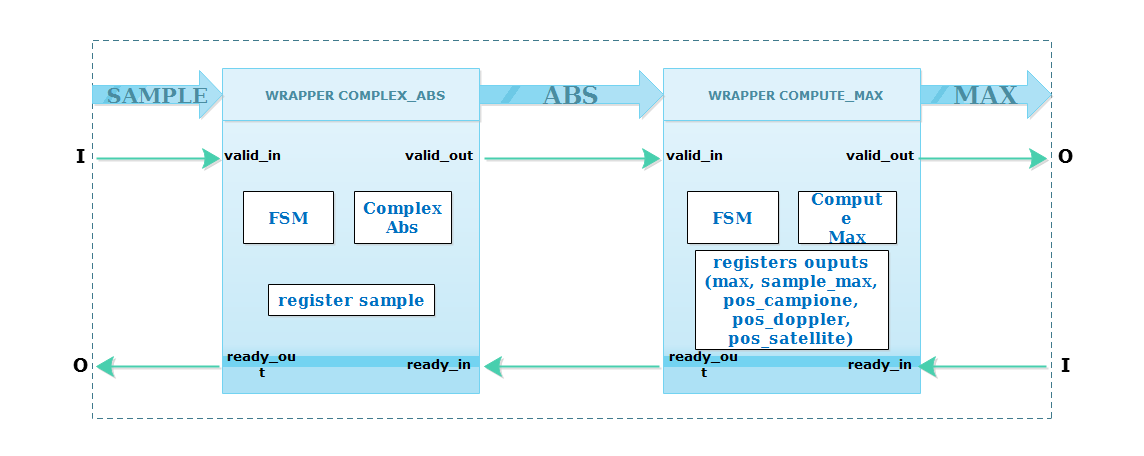
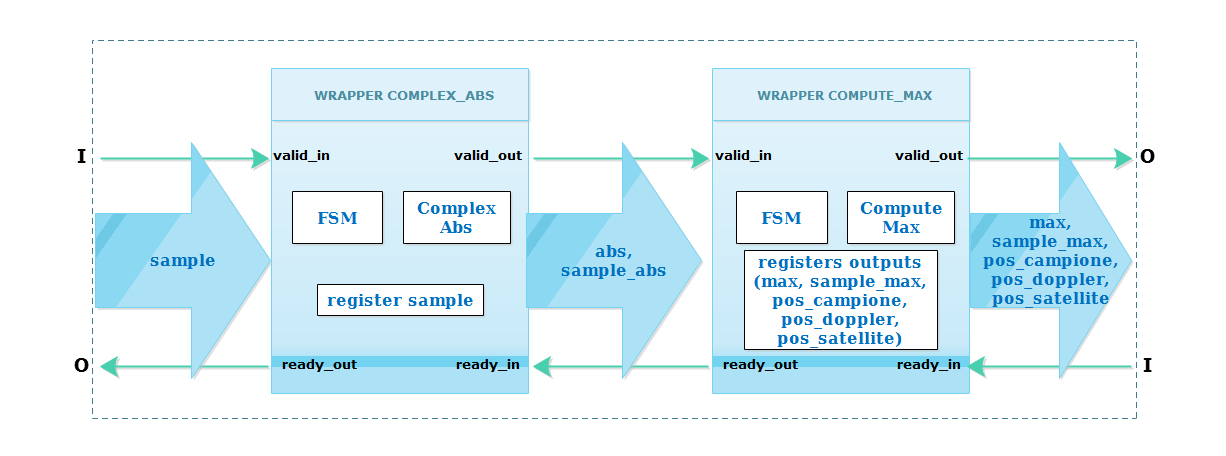
Modifiche testuali al main.tex della doc esterna del progetto finale, modificata anche un'immagine della stessa doc

diff --git a/doc/esterna/main.tex b/doc/esterna/main.tex
@@ -139,34 +139,34 @@ In base alle formule precedentemente illustrate si ottengono i seguenti valori:\
 \hline
 \textbf{Frequenza} (Hz) & \textbf{PINC} (Hex) & \textbf{POFF} (Hex)\\ 
 \hline
--3250								& FFF597					   & 000000						\\
+-3250								& FFF597					   & 00000A						\\
 \hline
--2625								& FFF797					   & 000000						\\
+-2625								& FFF797					   & 000005						\\
 \hline
--2000								& FFF998					   & 000FFF						\\
+-2000								& FFF998					   & 000000						\\
 \hline
--1375								& FFFB98					   & FFF000						\\
+-1375								& FFFB98					   & 00000B						\\
 \hline
--750  								& FFFD99					   & 0F0F0F						\\
+-750  								& FFFD99					   & 000006						\\
 \hline
--125									& FFFF99					   & F0F0F0						\\
+-125									& FFFF99					   & 000001						\\
 \hline
-500									& 19A						   & FF0000						\\
+500									& 19A						   & 00000C						\\
 \hline
-1125								& 39B						   & 00FF00						\\
+1125								& 39B						   & 000007						\\
 \hline
-1750								& 59B						   & 0000DC						\\
+1750								& 59B						   & 000002						\\
 \hline
-2375								& 79C						   & 003400						\\
+2375								& 79C						   & 00000D						\\
 \hline
-3000								& 99C						   & 220000						\\
+3000								& 99C						   & 000008						\\
 \hline
 \end{tabular}
 \end{center}
 \clearpage
 
 \chapter{IPcore 2}
-Le specifiche per questo componente prescrivono la realizzazione di un \textit{IPcore} che calcolasse, dato un un insieme di campioni, il massimo valore. I campioni sono espressi come dei valori complessi, formati da parte reale ed immaginaria, i quali devono essere preventivamente elaborati calcolandone il modulo. Il massimo verrà calcolato sui moduli di questi campioni. Il componente deve fornire in uscita il campione (inteso come valore complesso) massimo, oltre alle informazioni relative a spiazzamento nella frequenza doppler, frequenza doppler e satellite ai quali appartiene il campione.
+Le specifiche per questo componente prescrivono la realizzazione di un \textit{IPcore} che calcolasse, dato un un insieme di campioni, il massimo valore. I campioni sono espressi come dei valori complessi, formati da parte reale ed immaginaria, i quali devono essere preventivamente elaborati calcolandone il modulo. Il massimo verrà calcolato sui moduli di questi campioni. Il componente deve fornire in uscita il campione massimo(inteso come valore complesso), oltre alle informazioni relative a spiazzamento nella frequenza doppler, frequenza doppler e satellite ai quali appartiene il campione.
 
 \begin{figure}[hb]
 \begin{center}
@@ -259,9 +259,9 @@ Per un motivo analogo sono stati introdotti dei \textit{flip-flop}, ovvero per r
 Un blocco \textit{livelli2impulsi} è posto tra i contatori delle doppler e dei satelliti per rendere il segnale a livelli \textit{count\_hit} un segnale impulsivo. Questo accorgimento è necessario per evitare che il contatore dei satelliti sia abilitato al conteggio per più di una volta, cosa che potrebbe capitare quando sono terminate le frequenze doppler per un dato satellite (in tal caso il contatore delle doppler avrebbe raggiunto il massimo conteggio e asserirebbe \textit{count\_hit} fino alla prossima abilitazione al conteggio, che avverrebbe solo alla fine della prossima frame).\\
 \clearpage
 \subsection{Collegamento dei blocchi}
-Durante la fase di collegamento dei blocchi appena descritti sono sorti svariati problemi di sincronizzazione derivanti dal fatto che i blocchi avessero tempi di calcolo differenti. 
-
-Una prima soluzione è stata quella di utilizzare frequenze di clock diverse per ciascun blocco, ovvero modellando la frequenza di clock del blocco \textit{compute\_max} con un periodo che tenesse in conto del ritardo del blocco \textit{complex\_abs}, ma questa soluzione è stata abbandonata per la difficoltà di definire in maniera precisa la latenza del primo blocco.
+Durante la fase di collegamento dei blocchi appena descritti sono sorti svariati problemi di sincronizzazione derivanti dal fatto che i blocchi avessero tempi di calcolo differenti.\\
+Una prima soluzione è stata quella di utilizzare frequenze di clock diverse per ciascun blocco, ovvero modellando la frequenza di clock del blocco \textit{compute\_max} con un periodo che tenesse in conto del ritardo del blocco \textit{complex\_abs}, ma questa soluzione è stata abbandonata per motivi di inefficienza.\\
+Infatti, adattando la pipe a lavorare ad una frequenza tale da assicurare sempre il termine del blocco \textit{complex\_abs}, si incorreva nella possibilità di avere il sistema in attesa \textit{"non utile"} per un tempo variante e indeterminato.\\
 
 La soluzione adottata, pertanto, è stata quella di utilizzare una comunicazione basata su \textbf{scambio di messaggi}. In pratica, ciascun blocco gestisce una coppia di segnali: \textit{valid\_out} che indica la \textbf{validità} del dato sulla linea di uscita e \textit{ready\_out} che indica la \textbf{disponibilità} del blocco ad accettare dati in ingresso. Oltre a questi due segnali, ciascun blocco riceve in ingresso un'altra coppia di segnali con una semantica simile: \textit{valid\_in}, che indica la validità del dato in ingresso al blocco (asserito dal blocco a monte) e \textit{ready\_in}, che indica la disponibilità del componente a valle di accettare dati. \\
 Come si può osservare dalla \figurename~\ref{wrapperabs_fsm}, ogni qualvolta un blocco è pronto ad accettare dati in ingresso deve asserire \textit{ready\_out} e attendere che \textit{valid\_in} sia asserito dal blocco a monte. Una volta che \textit{valid\_in} diventa alto, il blocco può procedere all'elaborazione e asserire \textit{valid\_out}, quando l'elaborazione termina, per segnalare la presenza di dati validi sulla linea di uscita. Se il blocco a valle non è pronto ad accettare dati, il blocco dovrà attendere che il segnale \textit{ready\_in} sia alto prima di procedere al calcolo successivo.
